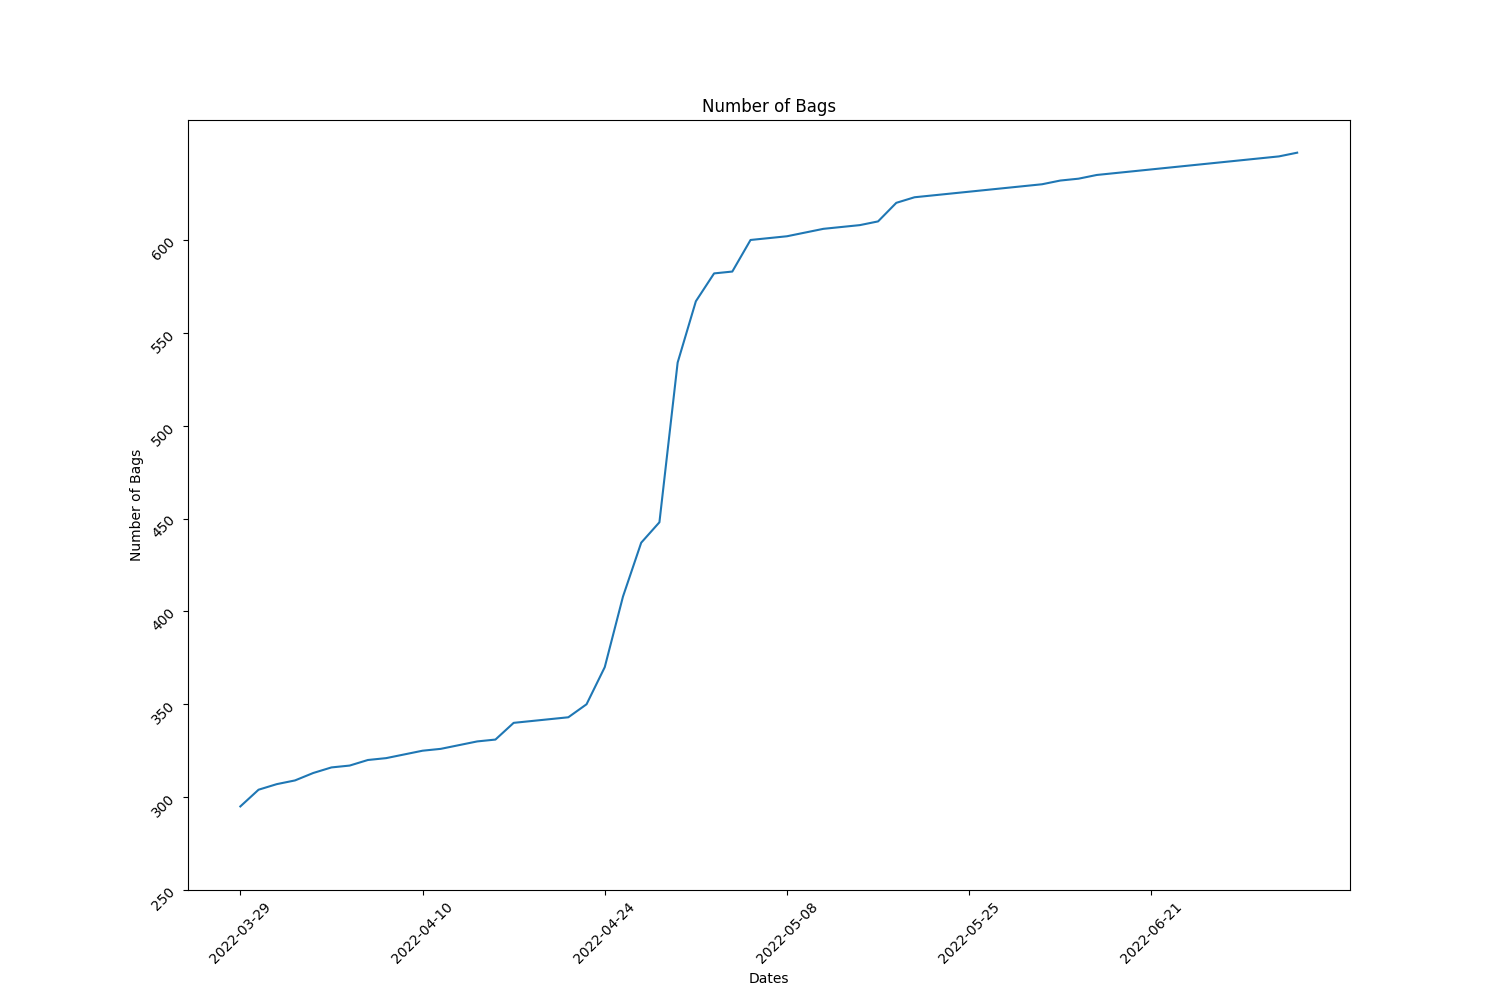
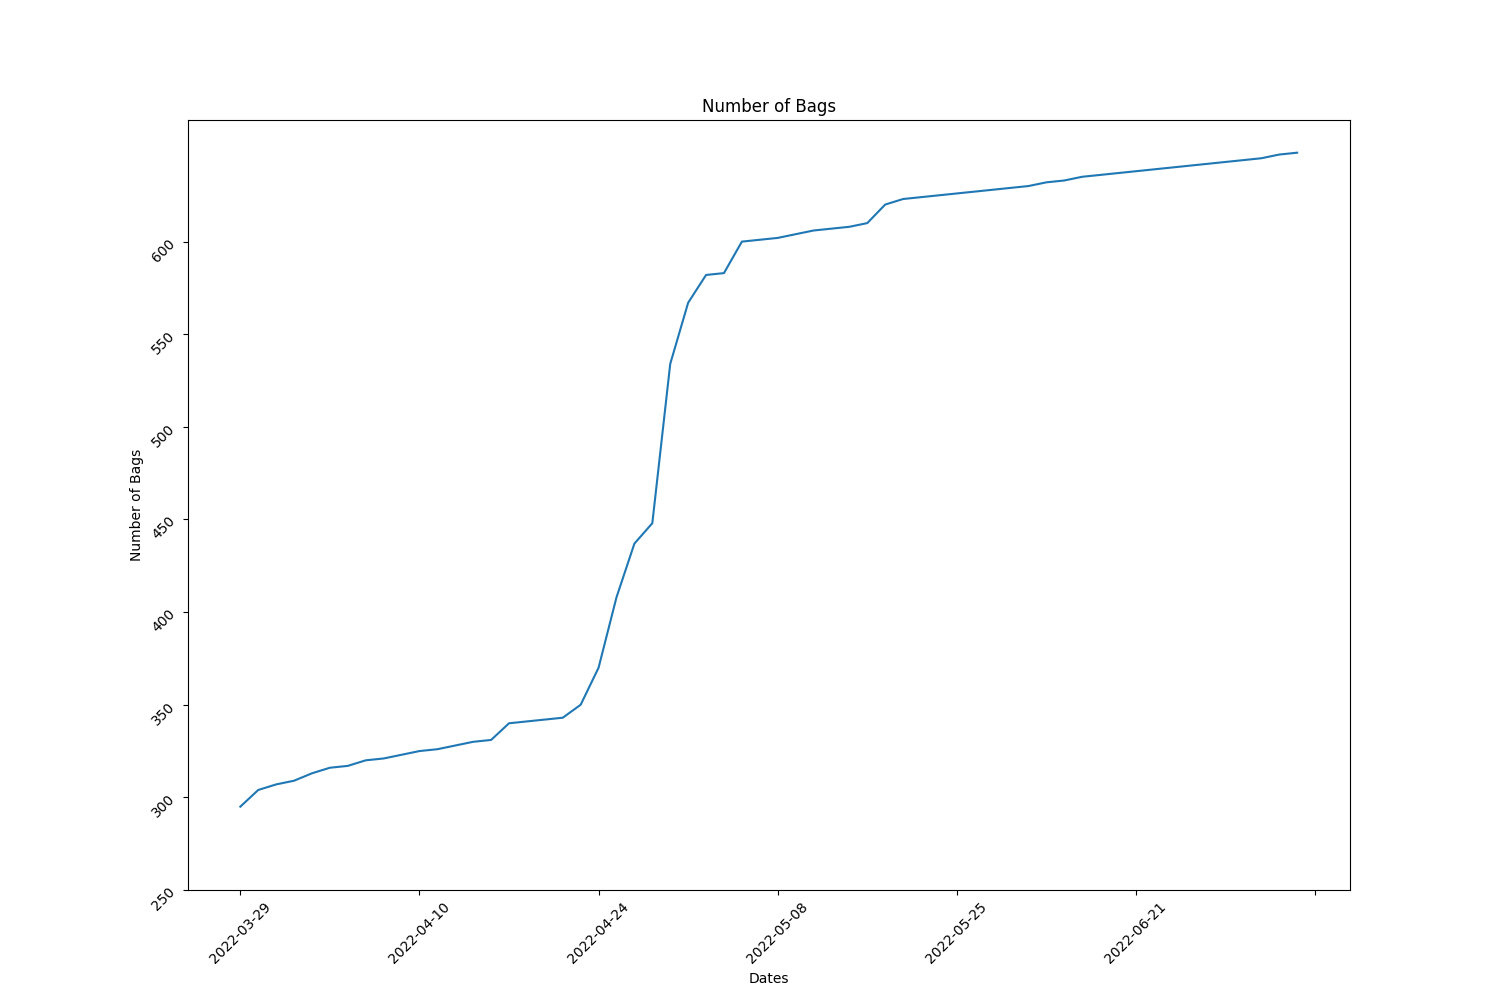
account for cancelled opennings

diff --git a/report.py b/report.py
@@ -69,14 +69,16 @@ def get_rewards(start_time, end_time):
   return total,result
 
 def get_new_opening(start_time, end_time):
-  query = '{{ openingAddedEvents(where: {{group: {{id_eq: "storageWorkingGroup"}}, createdAt_gt: "{}", createdAt_lt: "{}"}}) {{ opening {{ createdAt id }} }} }}'.format(start_time, end_time)
+  query = '{{ openingAddedEvents(where: {{group: {{id_eq: "storageWorkingGroup"}}, createdAt_gt: "{}", createdAt_lt: "{}"}}) {{ opening {{ createdAt id openingcanceledeventopening {{ createdAt }} }} }} }}'.format(start_time, end_time)
   query_dict = {"query": query}
+  print(query)
   data = queryGrapql(query_dict,url)['openingAddedEvents']
   result = []
   if len(data) == 0:
     return 0,result
   for record in data:
-    result.append(record['opening'])
+    if len(record['opening']['openingcanceledeventopening']) == 0:
+      result.append({'id': record['opening']['id'], 'createdAt': record['opening']['createdAt']})
   length = len(result)
   return length,result
 

diff --git a/report_2022-07-05T00:41:30.000Z.md b/report_2022-07-05T00:41:30.000Z.md
@@ -9,13 +9,12 @@ Start Block: 1382400
 End Block: 1483200 
 
 # Opening 
-Number of openings: 4 
-| createdAt                | id                     |
-|--------------------------|------------------------|
-| 2022-07-01T13:07:36.000Z | storageWorkingGroup-19 |
-| 2022-07-01T18:26:12.000Z | storageWorkingGroup-20 |
-| 2022-07-04T16:32:36.000Z | storageWorkingGroup-21 |
-| 2022-07-04T17:35:30.000Z | storageWorkingGroup-22 |
+Number of openings: 3 
+| id                     | createdAt                |
+|------------------------|--------------------------|
+| storageWorkingGroup-19 | 2022-07-01T13:07:36.000Z |
+| storageWorkingGroup-20 | 2022-07-01T18:26:12.000Z |
+| storageWorkingGroup-22 | 2022-07-04T17:35:30.000Z |
 # Hiring
 Number of hired works: 1
 | id                     |   membershipId | createdAt                |
@@ -46,18 +45,19 @@ Total Rewards: 6806240
 |   id |   dataObjectsSize |   dataObjectsSizeLimit |   dataObjectsCount |   bags |   Utilization |   dataObjectsSize, GB |
 |------|-------------------|------------------------|--------------------|--------|---------------|-----------------------|
 |    9 |        2580456339 |          1000000000000 |                 12 |      1 |   0.00258046  |             2.40089   |
+|   15 |                 0 |          1500000000000 |                  0 |      0 |   0           |             0         |
 |   10 |          13226270 |          1500000000000 |                  2 |      1 |   8.81751e-06 |             0.0123059 |
 |   12 |          13226270 |          1500000000000 |                  2 |      1 |   8.81751e-06 |             0.0123059 |
 |   11 |          13226270 |          1500000000000 |                  2 |      1 |   8.81751e-06 |             0.0123059 |
 |   13 |          13226270 |          1500000000000 |                  2 |      1 |   8.81751e-06 |             0.0123059 |
 |   14 |          13226270 |          1500000000000 |                  2 |      1 |   8.81751e-06 |             0.0123059 |
-|    6 |      897679552266 |          2000000000000 |              14756 |    641 |   0.44884     |           835.214     |
-|    8 |      897679552266 |          1500000000000 |              14756 |    641 |   0.598453    |           835.214     |
+|    6 |      897711809456 |          2000000000000 |              14760 |    642 |   0.448856    |           835.244     |
+|    8 |      897711809456 |          1500000000000 |              14760 |    642 |   0.598475    |           835.244     |
 |    0 |         264524788 |          2000000000000 |                 40 |      1 |   0.000132262 |             0.246118  |
-|    1 |      897679552266 |          2000000000000 |              14756 |    641 |   0.44884     |           835.214     |
-|    2 |      897679552266 |          1400000000000 |              14756 |    641 |   0.6412      |           835.214     |
-|    3 |      897679552266 |          1400000000000 |              14756 |    641 |   0.6412      |           835.214     |
+|    1 |      897711809456 |          2000000000000 |              14760 |    642 |   0.448856    |           835.244     |
 |    4 |      896735922366 |          2000000000000 |              14732 |    634 |   0.448368    |           834.336     |
+|    2 |      897711809456 |          1400000000000 |              14760 |    642 |   0.641223    |           835.244     |
+|    3 |      897711809456 |          1400000000000 |              14760 |    642 |   0.641223    |           835.244     |
 ## BUCKETS CREATED
 Bucket Created: 0
 ## BUCKETS DELETED
@@ -99,18 +99,18 @@ Total Objects Size: 8842162324 bytes
 | 2644 |             5 |          864109903 |            172821980 |
 | 2646 |             1 |               3318 |                 3318 |
 # Total object Info 
-Total Objects Size: 14826 
+Total Objects Size: 14830 
 
-Total Objects Size: 898142470084 bytes
+Total Objects Size: 898174727274 bytes
 
 ## Objects Size Distribution 
 |   <10 MB |   <100 MB |   <1000 MB |   <10000 MB |   <100000 MB |   <1000000 MB |
 |----------|-----------|------------|-------------|--------------|---------------|
-|     8695 |     12558 |      14736 |       14826 |        14826 |         14826 |
+|     8698 |     12562 |      14740 |       14830 |        14830 |         14830 |
  
 |   0-10 MB |   10-100 MB |   100-1000 MB |   1000-10000 MB |   10000-100000 MB |   100000-10000000 MB |
 |-----------|-------------|---------------|-----------------|-------------------|----------------------|
-|      8695 |        3863 |          2178 |              90 |                 0 |                    0 |
+|      8698 |        3864 |          2178 |              90 |                 0 |                    0 |
 ## Objects Size Distribution Per Bag 
 |   id |   objects_num |   total_size bytes |   average_size bytes |
 |------|---------------|--------------------|----------------------|
@@ -399,6 +399,7 @@ Total Objects Size: 898142470084 bytes
 | 2522 |             6 |           35519810 |              5919968 |
 | 2295 |             5 |           34281515 |              6856303 |
 | 2533 |             4 |           33042480 |              8260620 |
+| 2647 |             4 |           32257190 |              8064297 |
 | 2579 |             4 |           30515216 |              7628804 |
 | 2416 |             4 |           28908892 |              7227223 |
 | 2369 |             6 |           28761424 |              4793570 |
